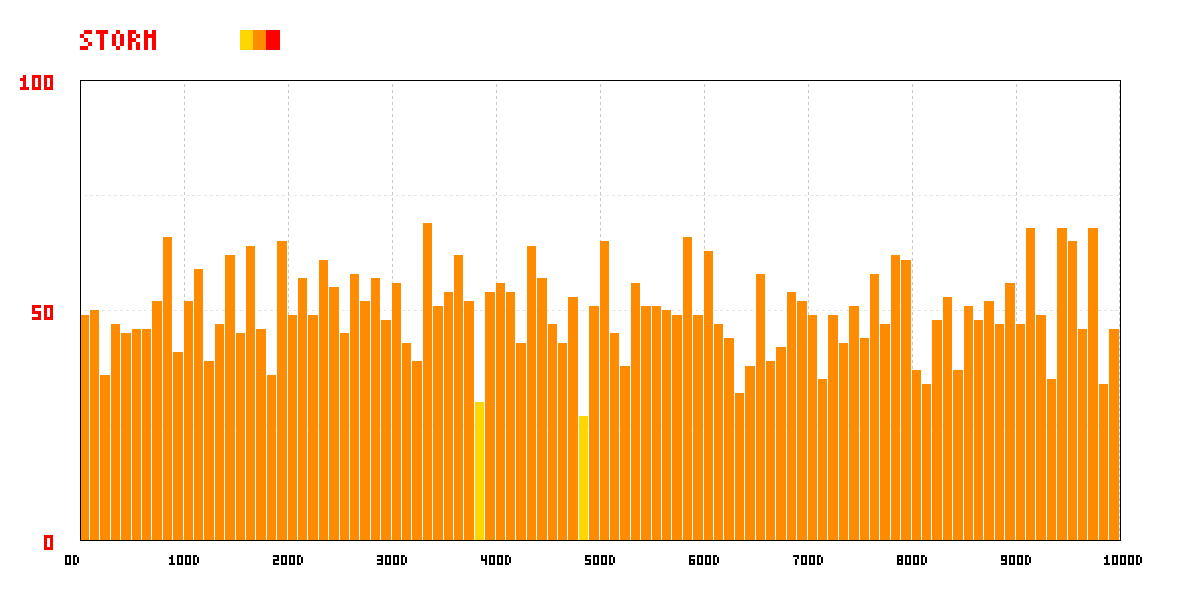
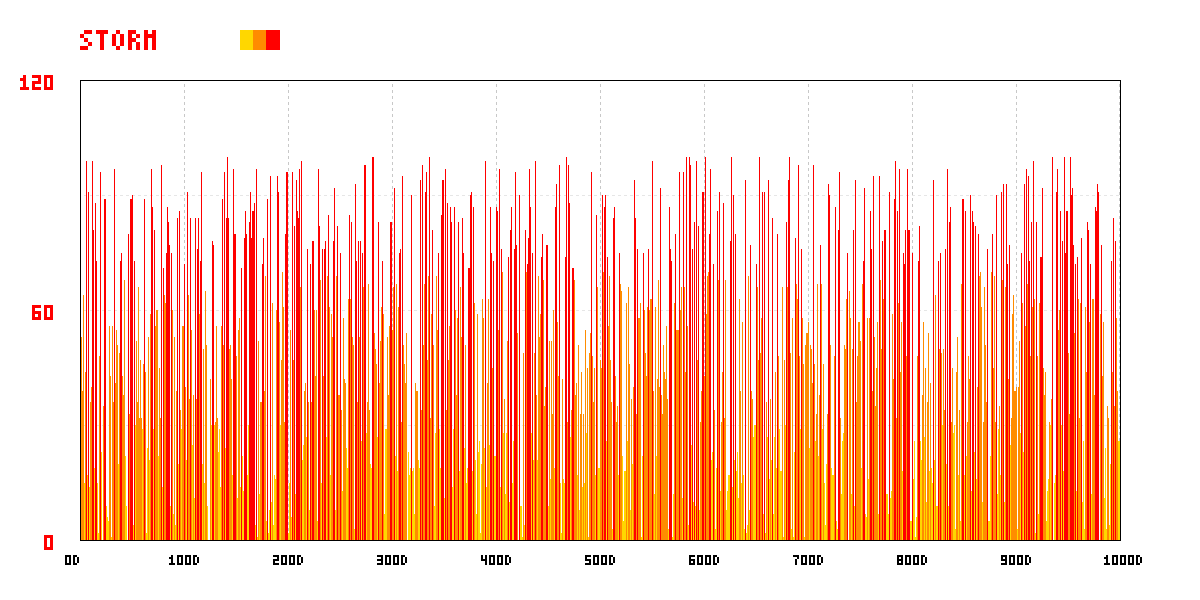
그래프 수정

Changed region(s): [[0.0617, 0.27, 0.9558, 0.9]]

diff --git a/step12/mars_weather_summary.py b/step12/mars_weather_summary.py
@@ -329,12 +329,12 @@ class WeatherVisualizer:
     
     @staticmethod
     def save_summary_png(rows):
-        """요구사항에 맞추어 10일 단위로 데이터를 압축하고, 온도와 폭풍 그래프를 분리하여 생성합니다."""
+        """원본 데이터를 1:1로 매핑하여 데이터 유실 없이 온도와 폭풍 그래프를 분리 생성합니다."""
         WeatherVisualizer._create_png(rows, 'TEMP', 'mars_temp_summary.png')
         WeatherVisualizer._create_png(rows, 'STORM', 'mars_storm_summary.png')
         print('결과 그래프가 각각 분리되어 저장되었습니다.')
-        print('-> 📈 [온도 그래프] mars_temp_summary.png (0~100도 고정, 100일 단위 눈금)')
-        print('-> 🚨 [폭풍 그래프] mars_storm_summary.png (10일 단위 압축 막대그래프)')
+        print('-> 📈 [온도 그래프] mars_temp_summary.png (동적 스케일링, DDA 연속선, 100일 눈금)')
+        print('-> 🚨 [폭풍 그래프] mars_storm_summary.png (데이터 유실 없는 원본 1:1 매핑 막대그래프)')
 
     @staticmethod
     def _create_png(rows, mode, filename):
@@ -352,18 +352,12 @@ class WeatherVisualizer:
         graph_width = width - margin_left - margin_right
         graph_height = height - margin_top - margin_bottom
         
-        # 1. 10일 단위로 데이터 압축 (Data Binning/Smoothing 기법 적용)
-        chunk_size = 10
-        compressed = []
-        for i in range(0, len(rows), chunk_size):
-            chunk = rows[i:i+chunk_size]
-            average_temp = int(sum(record[1] for record in chunk) / len(chunk))
-            average_storm = int(sum(record[2] for record in chunk) / len(chunk))
-            compressed.append((average_temp, average_storm))
+        # 1. 원본 데이터 유지 (압축 없이 1일 = 1픽셀 매핑하여 데이터 신뢰성 100% 보장)
+        compressed = [(record[1], record[2]) for record in rows]
 
-        # 동적 스케일링을 위한 데이터 최대값 도출 (최소 100 이상 보장)
-        max_temp_val = max(100, max(data[0] for data in compressed))
-        max_storm_val = max(100, max(data[1] for data in compressed))
+        # 동적 스케일링을 위한 데이터 최대값 도출 (상단 보기 편하도록 20 마진 추가)
+        max_temp_val = max(100, max(data[0] for data in compressed)) + 20
+        max_storm_val = max(100, max(data[1] for data in compressed)) + 20
 
         # 2. 픽셀 데이터 초기화 (흰색 배경)
         pixels = [[[255, 255, 255] for _ in range(width)] for _ in range(height)]
@@ -431,17 +425,23 @@ class WeatherVisualizer:
                 center_x = margin_left + int(((i + 0.5) / len(compressed)) * graph_width)
                 temp_y = (height - margin_bottom) - int(temp_ratio * graph_height)
                 
-                # 이전 점에서 현재 점까지 선 그리기
+                # 현재 점 먼저 찍기
+                if margin_top <= temp_y < height - margin_bottom:
+                    pixels[temp_y][center_x] = [0, 0, 255]
+                    if temp_y + 1 < height - margin_bottom: pixels[temp_y+1][center_x] = [0, 0, 255]
+
+                # 이전 점에서 현재 점까지 빈틈없이 선 그리기 (DDA 알고리즘 적용)
                 if prev_x is not None and prev_y is not None:
-                    steps = center_x - prev_x
+                    dx_line = center_x - prev_x
+                    dy_line = temp_y - prev_y
+                    steps = max(abs(dx_line), abs(dy_line))
                     if steps > 0:
-                        for dx in range(steps):
-                            curr_x = prev_x + dx
-                            curr_y = prev_y + int((temp_y - prev_y) * (dx / steps))
+                        for s in range(steps + 1):
+                            curr_x = prev_x + int(dx_line * (s / steps))
+                            curr_y = prev_y + int(dy_line * (s / steps))
                             if margin_top <= curr_y < height - margin_bottom:
                                 pixels[curr_y][curr_x] = [0, 0, 255]
                                 if curr_y + 1 < height - margin_bottom: pixels[curr_y+1][curr_x] = [0, 0, 255]
-                                if curr_y + 2 < height - margin_bottom: pixels[curr_y+2][curr_x] = [0, 0, 255]
                 
                 prev_x, prev_y = center_x, temp_y
 
@@ -466,8 +466,11 @@ class WeatherVisualizer:
                     x_start = margin_left + int((i / len(compressed)) * graph_width)
                     x_end = margin_left + int(((i + 1) / len(compressed)) * graph_width)
                     
-                    # 막대 사이에 1픽셀 간격을 두어 독립된 블록으로 보이게 처리
-                    for x in range(x_start, x_end - 1):
+                    # 데이터가 1000개일 때는 간격을 두면 막대가 안 그려질 수 있으므로 최소 1픽셀 보장
+                    if x_end <= x_start:
+                        x_end = x_start + 1
+                        
+                    for x in range(x_start, x_end):
                         for y in range(start_y, height - margin_bottom):
                             pixels[y][x] = storm_color
 

diff --git a/step12/README.md b/step12/README.md
@@ -94,8 +94,8 @@ flowchart TD
 
 ### 4단계: 커스텀 시각화 엔진 (`WeatherVisualizer`)
 - `matplotlib` 일체 없이 파이썬 표준 라이브러리만으로 픽셀을 계산해 PNG를 생성합니다.
-- **데이터 스무딩(Binning):** 1000일 치 데이터를 10일 단위 평균으로 압축하여 가독성 높은 트렌드를 보여줍니다.
-- **동적 스케일링:** 0~100도, 0~100강도에 맞춰 동적 Y축 눈금을 생성하며 2개의 독립된 그래프 파일로 분리 저장합니다.
+- **연속선 렌더링 (DDA 알고리즘):** 온도가 급변하는 구간에서도 점이 끊어지지 않도록 선형 보간 알고리즘을 적용해 매끄러운 꺾은선을 만듭니다.
+- **동적 스케일링:** 최고 데이터치에 맞춰 동적으로 Y축을 설정하고 상단 여백(+20)을 주어 가독성을 확보했습니다. (온도/폭풍 분리 저장)
 
 ## ✅ 과제 요구사항 체크리스트
 
@@ -119,6 +119,8 @@ flowchart TD
 ```sql
 USE mars_db;
 SELECT COUNT(*) FROM mars_weather;          -- 1000이 나오면 정상 적재
-SELECT * FROM mars_weather WHERE storm > 70
-SELECT mars_date, temp, storm FROM mars_weather ORDER BY mars_date DESC LIMIT 10;
+SELECT * FROM mars_weather ORDER BY mars_date DESC LIMIT 10;
+SELECT * FROM mars_weather WHERE storm <= 30; -- 안전
+SELECT * FROM mars_weather WHERE 30 < storm <= 70; -- 폭풍 주위
+SELECT * FROM mars_weather WHERE 71 <= storm; -- 외출 금지
 ```
